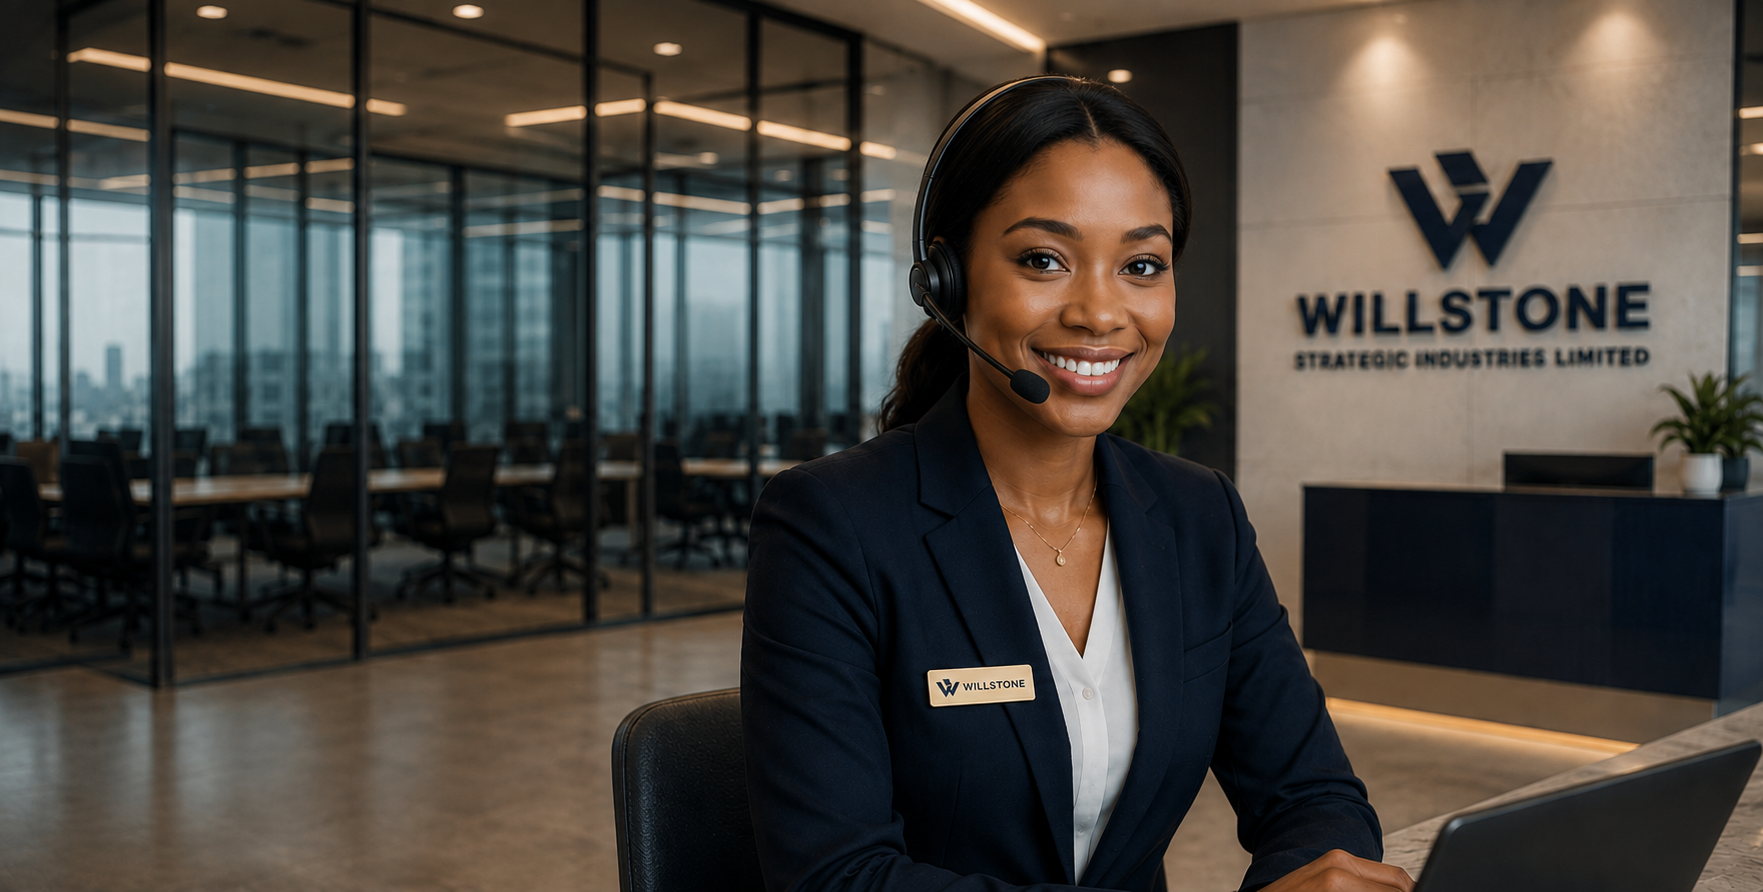
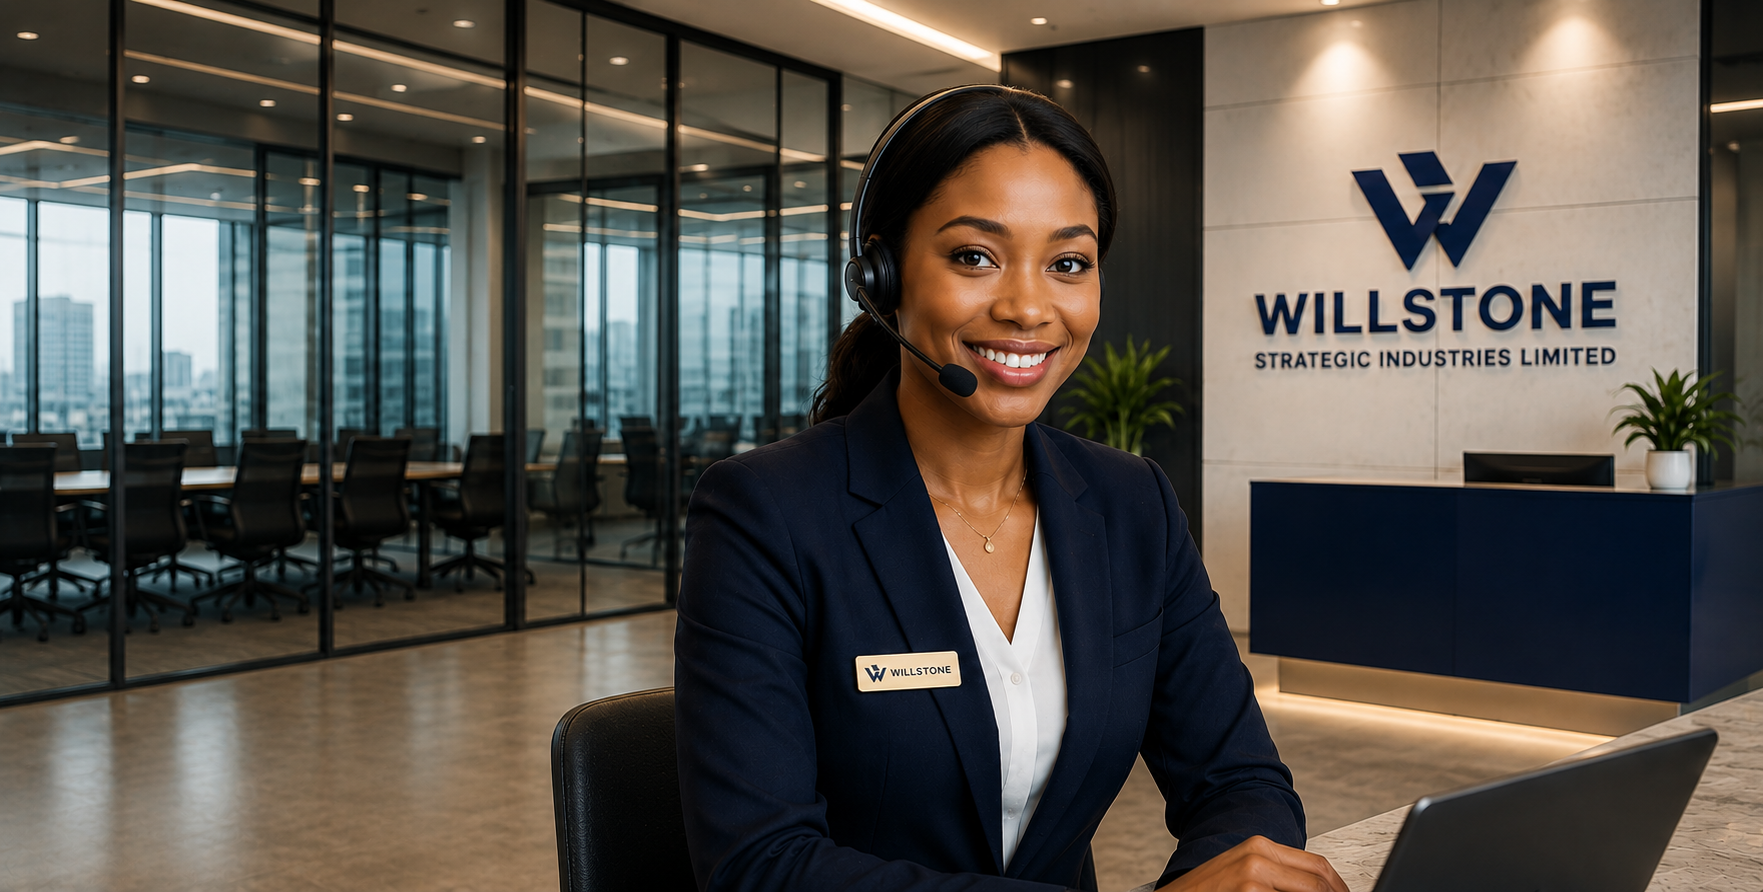
update page look

diff --git a/app/contact/page.tsx b/app/contact/page.tsx
@@ -1,7 +1,6 @@
 'use client'
 
 import { useState } from 'react'
-import Image from 'next/image'
 import { Space_Grotesk, Inter } from 'next/font/google'
 import '../willstone.css'
 import SiteHeader from '@/components/SiteHeader'
@@ -74,36 +73,44 @@ export default function ContactPage() {
 
       {/* ── HERO + FORM ── */}
       <section
-        className="relative overflow-hidden flex items-center"
-        style={{ paddingTop: '88px', minHeight: 'clamp(560px, 80vh, 760px)' }}
+        className="relative overflow-hidden flex items-stretch"
+        style={{ paddingTop: '88px', minHeight: '100svh' }}
       >
-        {/* full-bleed background image */}
-        <Image
+        {/* background image — always covers the full section, anchored to show the person */}
+        <img
           src="/assets/images/contact-us.png"
-          alt="Willstone team ready to help"
-          fill
-          priority
-          sizes="100vw"
-          className="object-cover object-center"
+          alt=""
+          aria-hidden="true"
+          style={{
+            position: 'absolute',
+            inset: 0,
+            width: '100%',
+            height: '100%',
+            objectFit: 'cover',
+            objectPosition: 'center top',
+            display: 'block',
+          }}
         />
-        {/* subtle dark overlay so image doesn't overpower */}
+        {/* overlay — heavier on left so form is legible, image shows on right */}
         <div
           className="absolute inset-0"
-          style={{ background: 'linear-gradient(90deg, rgba(6,15,31,.72) 0%, rgba(6,15,31,.35) 55%, rgba(6,15,31,.08) 100%)' }}
+          style={{
+            background: 'linear-gradient(100deg, rgba(6,15,31,.94) 0%, rgba(6,15,31,.78) 38%, rgba(6,15,31,.35) 65%, rgba(6,15,31,.05) 100%)',
+          }}
         />
 
-        {/* Form card — floated left on top of image */}
-        <div className="relative z-10 w-full max-w-6xl mx-auto px-5 sm:px-8 lg:px-10 py-12 sm:py-16 flex items-center">
+        {/* Form card */}
+        <div className="relative z-10 w-full max-w-6xl mx-auto px-5 sm:px-8 lg:px-10 py-14 sm:py-20 flex items-center">
           <div
-            className="w-full max-w-sm sm:max-w-md"
+            className="w-full max-w-[400px]"
             style={{
-              background: 'rgba(11,27,51,0.92)',
-              backdropFilter: 'blur(12px)',
-              WebkitBackdropFilter: 'blur(12px)',
+              background: 'rgba(11,27,51,0.90)',
+              backdropFilter: 'blur(14px)',
+              WebkitBackdropFilter: 'blur(14px)',
               borderRadius: '18px',
-              padding: '36px 32px',
+              padding: 'clamp(24px, 4vw, 36px) clamp(20px, 3vw, 32px)',
               border: '1px solid rgba(255,255,255,0.08)',
-              boxShadow: '0 24px 60px rgba(0,0,0,0.4)',
+              boxShadow: '0 24px 60px rgba(0,0,0,0.45)',
             }}
           >
             {submitted ? (
